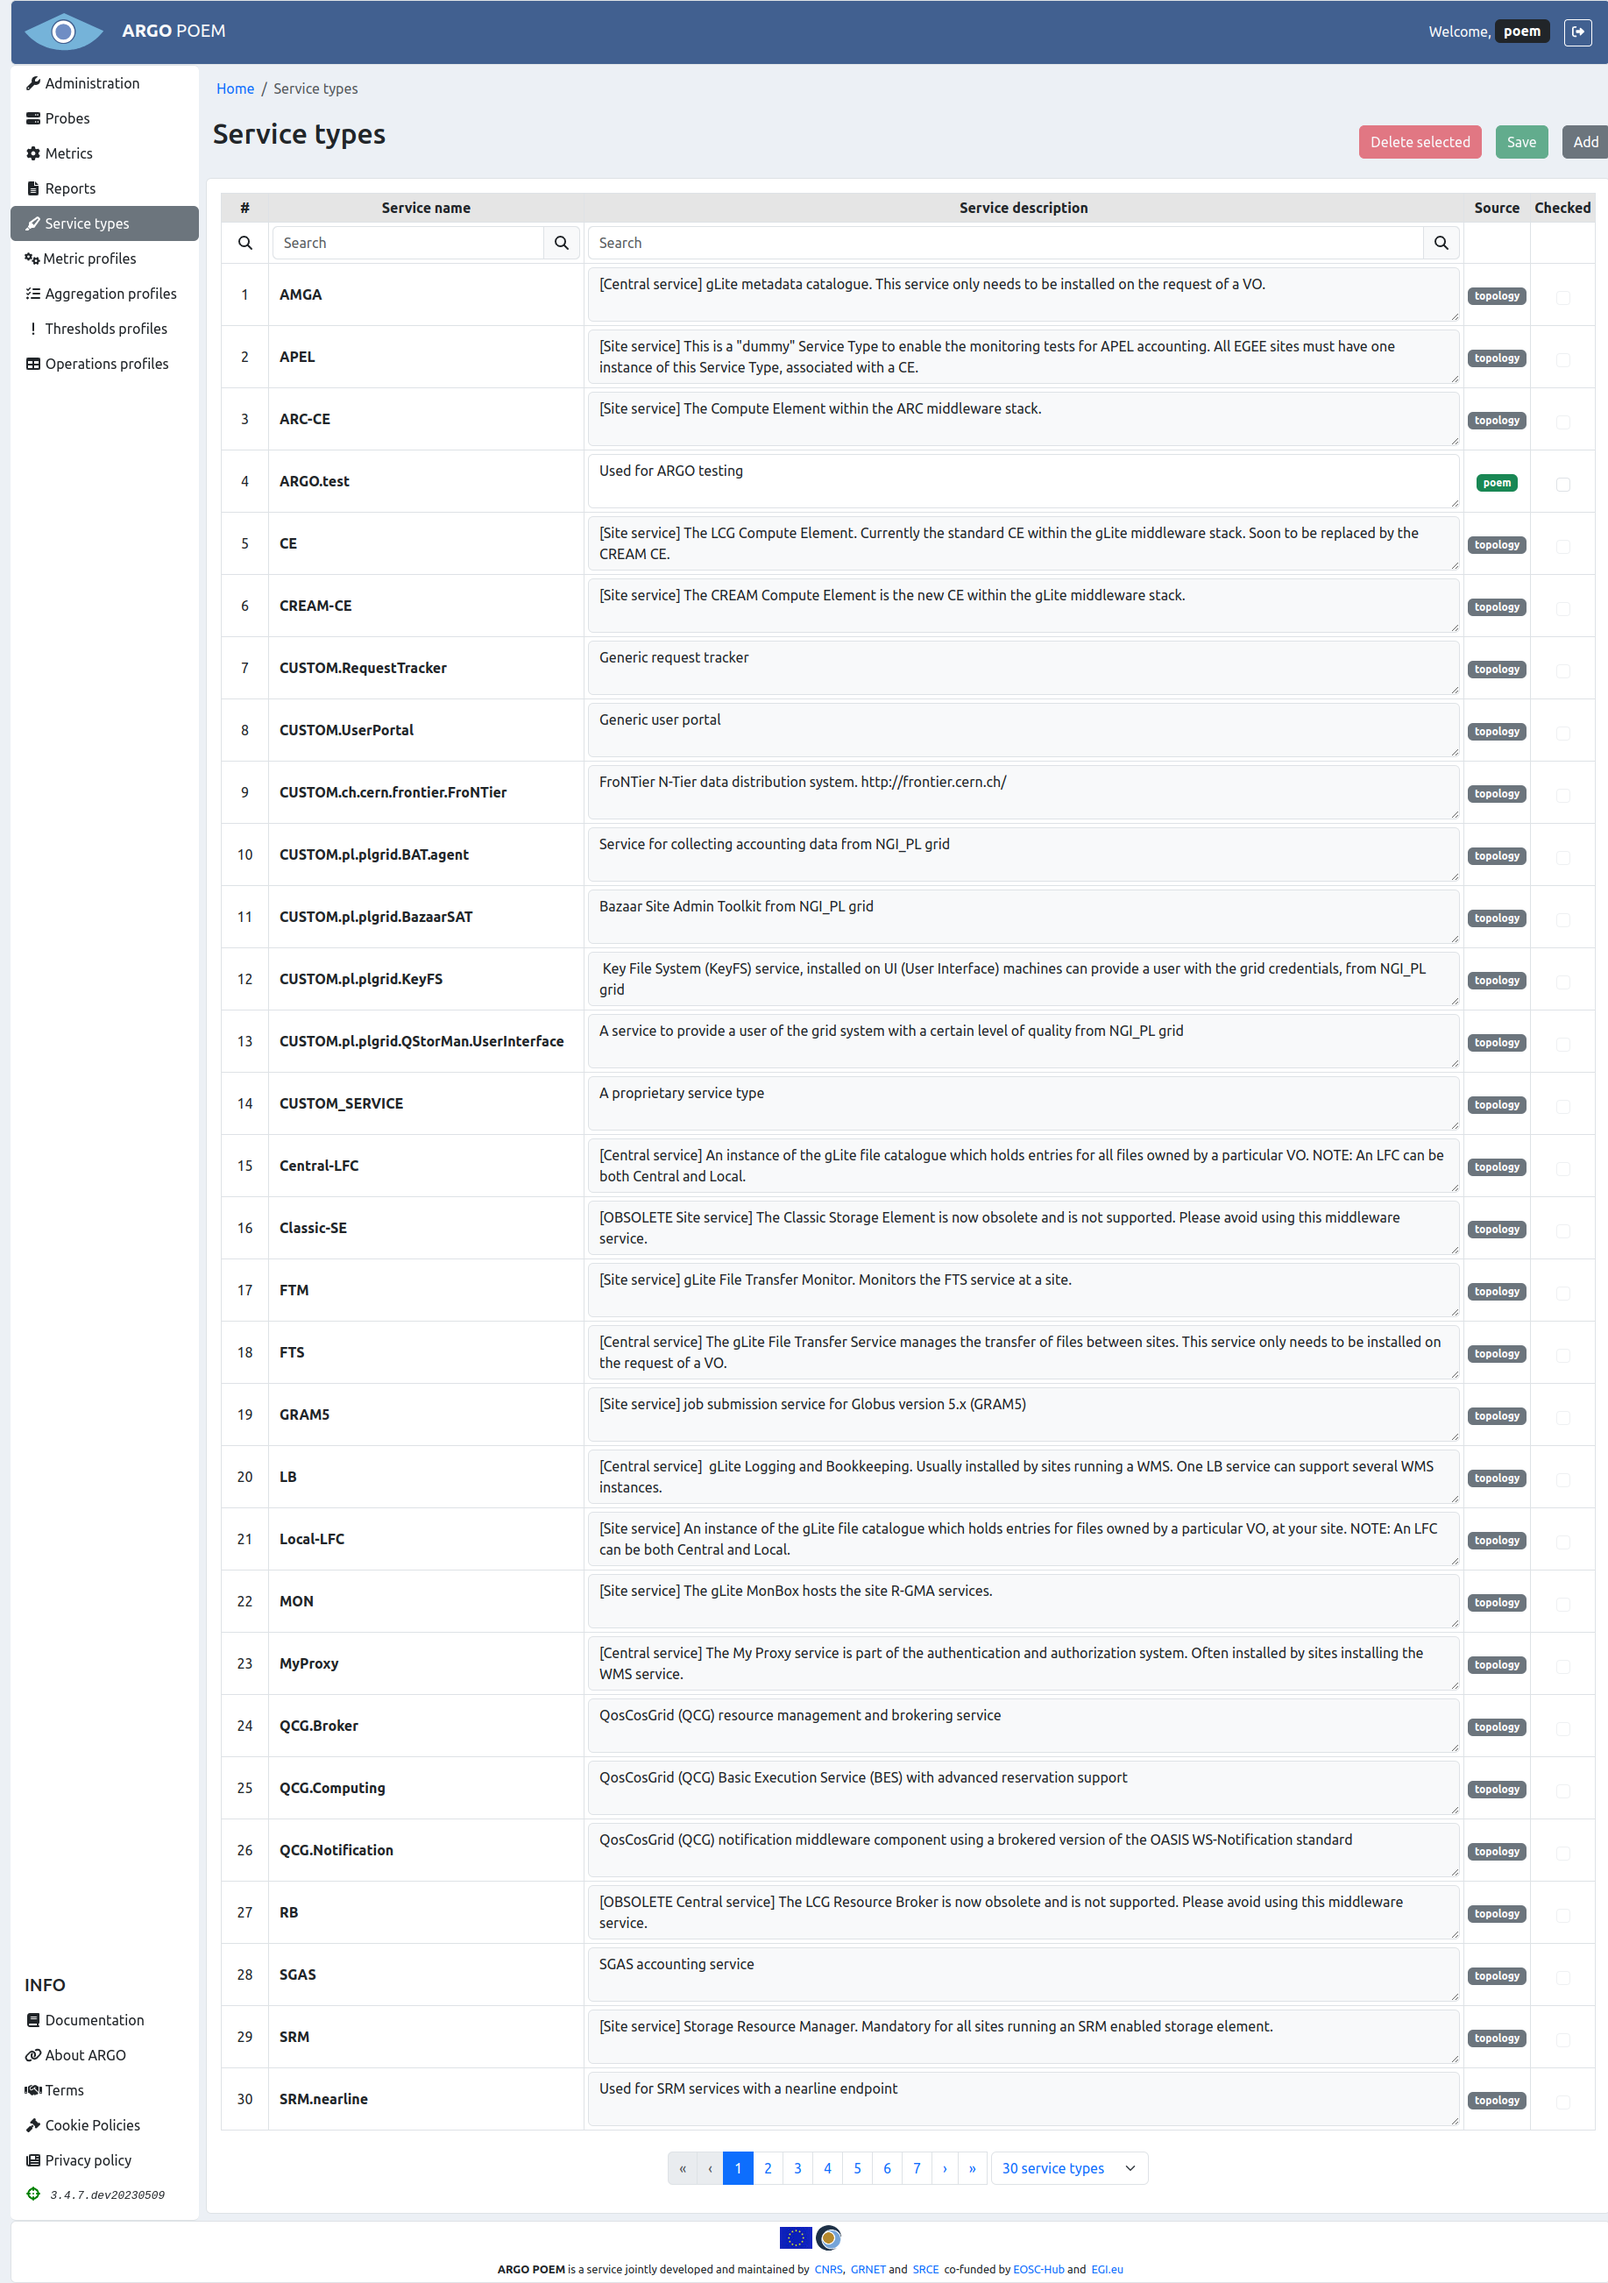
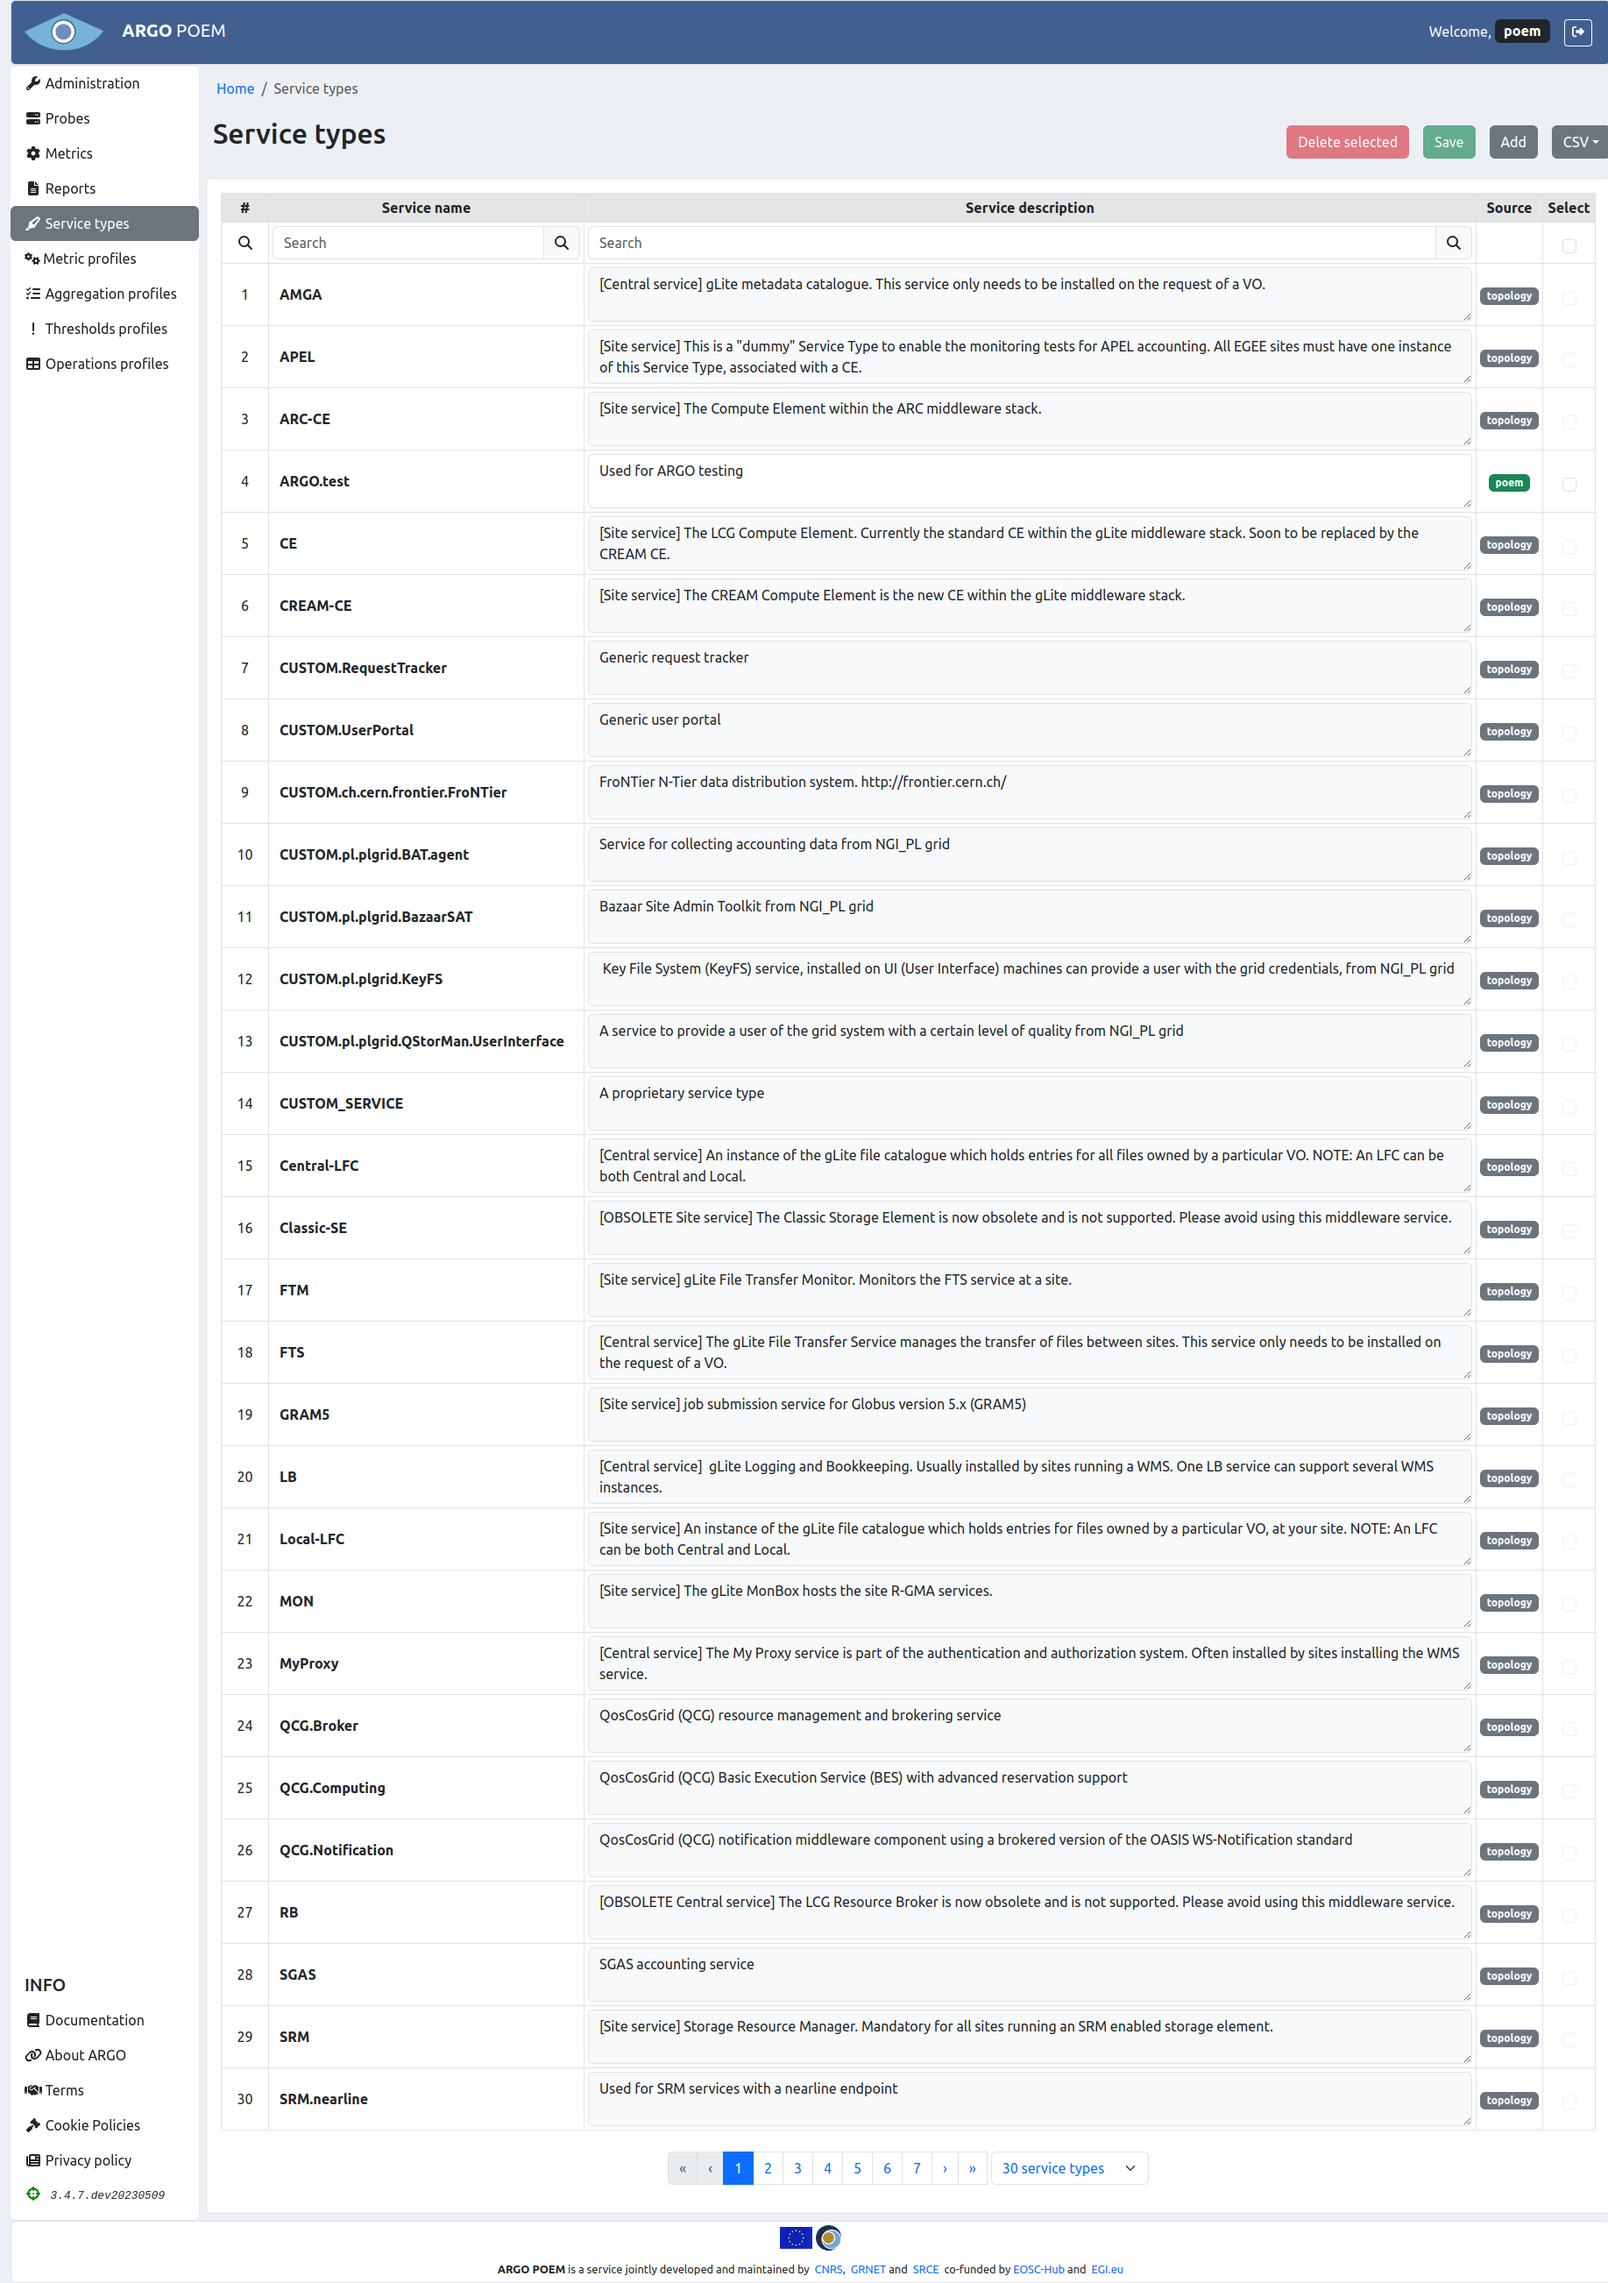
Update documentation on service types

diff --git a/doc/v1/docs/tenant_servicetypes.md b/doc/v1/docs/tenant_servicetypes.md
@@ -2,7 +2,7 @@
 
 Service types page is accessible from the menu on the left side. The data is presented in a table, with information on the name of service type, service description, its source (either topology or POEM), and a checkbox column used for deletion of service types.
 
-Service type can be defined as part of the topology (`topology` source tag), or it can be defined in this page (`POEM` source tag). Note that the description for the service types defined in the topology cannot be modified, while the same field for service types defined through POEM can be modified. If modified, it is necessary to click the `Save` button in order to save the changes to ARGO Web-API.
+Service type can be defined as part of the topology (`topology` source tag), or it can be defined in this page (`poem` source tag). Note that the description for the service types defined in the topology cannot be modified, while the same field for service types defined through POEM can be modified. If modified, it is necessary to click the `Save` button in order to save the changes to ARGO Web-API.
 
 The page layout is shown in the figure below. Service types can be searched by name, or by description.
 
@@ -12,17 +12,24 @@ Some tenants may have also service type titles defined. In that case, they are s
 
 ![Tenant Service Types with Titles](figures/tenant_servicetypes_with_titles.png)
 
+## Importing/exporting service types
+
+Service types can be exported to a `.csv` file, and also imported from such a file. This is done by clicking on the `CSV` button and selecting `Export` for exporting of `.csv` file, and `Import` for importing data from a `.csv` file.
+
+In case of export, the file name is of the form `<TENANT_NAME>-service-types-devel.csv` in case of devel POEM, and `<TENANT_NAME>-service-types.csv` in case of production POEM.
+
+When importing service types, all the existing service types are overridden, and the new (imported) ones all have `poem` tag. Keep in mind that if there are service types defined in the topology, they will be recreated next time the connector syncs the data from the topology (the ones added through POEM will remain).
+
 ## Adding service types
 
-Service types can be bulk added by clicking on the `Add` button. It opens a new page shown in the figure below. Users add service name and description in the top fields, and by clicking the `Add new` button, add them to the table below. Descriptions can be conveniently edited in the table as well. The changes are sent to the ARGO Web API by clicking the button `Save`. Service types added this way are always stored with `POEM` source tag.
+Service types can be bulk added by clicking on the `Add` button. It opens a new page shown in the figure below. Users add service name and description in the top fields, and by clicking the `Add new` button, add them to the table below. Descriptions can be conveniently edited in the table as well. The changes are sent to the ARGO Web API by clicking the button `Save`. Service types added this way are always stored with `poem` source tag.
 
 ![Tenant Service Types Bulk Add](figures/tenant_servicetypes_bulk_add.png)
 
 In case the tenant is using service types' titles as well, the form has one additional field for the title, as shown in figure below. The saving of service type is the same as in case without the titles.
+
 ![Tenant Service Types Bulk Add with Titles](figures/tenant_servicetypes_bulk_add_with_titles.png)
 
 ## Deleting service types
 
-Service types may be deleted by clicking in the `Checked` column of the row(s) of the service type(s) you wish to delete, and finally clicking on the `Delete selected` button. 
-
-Keep in mind that the service types which are defined in the topology will be restored when ARGO Web-API is synced with the topology source. Service types defined in the topology should be removed at the source, if they need to be removed.
+Service types may be deleted by clicking in the `Select` column of the row(s) of the service type(s) you wish to delete, or, alternatively, you can use the checkbox just below the `Select` column name, to select all of them. Finally, you delete them by clicking on the `Delete selected` button. 
